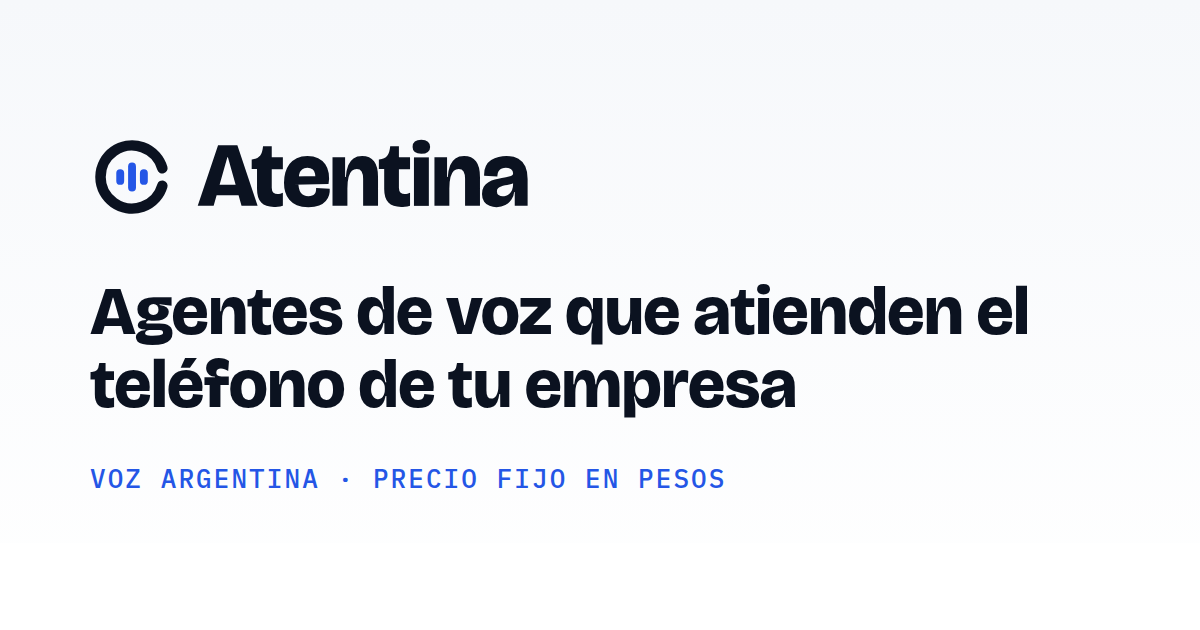
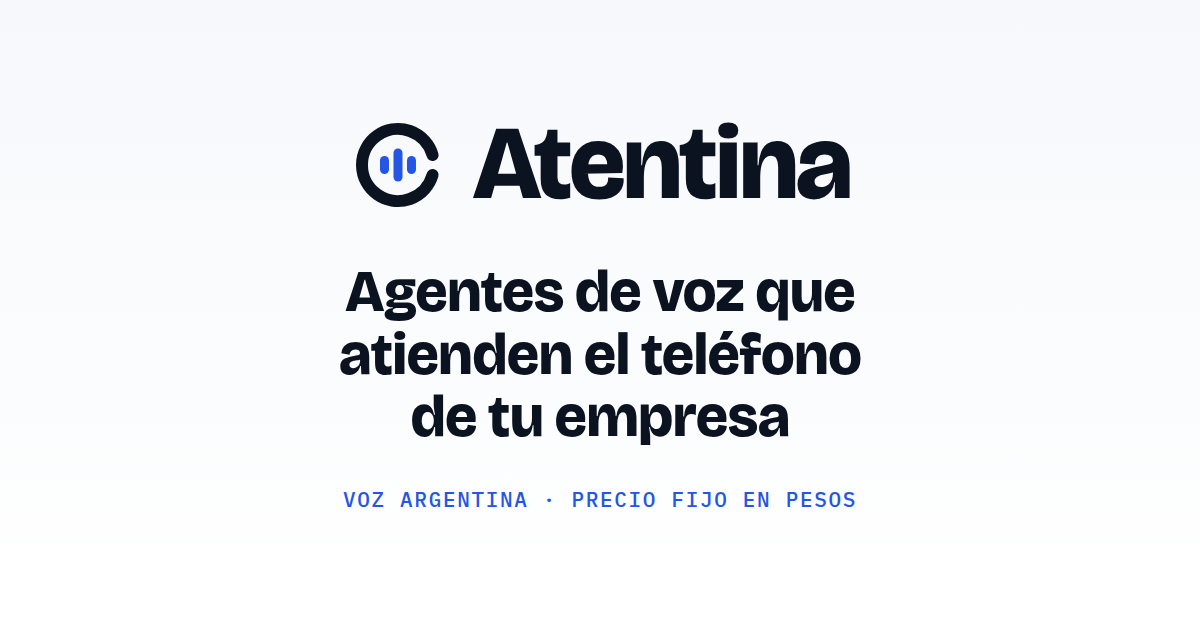
snapshot

Changed region(s): [[0.0617, 0.4222, 0.8633, 0.8143], [0.0617, 0.181, 0.7092, 0.3619], [0.0617, 0.7238, 0.2775, 0.7841]]

diff --git a/docs/DESIGN_GUIDELINE.md b/docs/DESIGN_GUIDELINE.md
@@ -31,7 +31,7 @@ cualquier pantalla de la landing. El dashboard (`web/`) sigue
   `landing/src/assets/og.png` (va con hash en la URL: al cambiarla, las vistas previas toman la nueva). Se generan en `scratch/logo/` (`build_atentina.py`, `og.html`).
   - Sobre claro: anillo y palabra en `ink`, barras en `accent` (azul del hub).
   - Sobre fondo `ink` (archivos `-blanco`): anillo y palabra en `cta-ink`, barras en `accent-on-dark`.
-  - `og.png` (1200 × 630): fondo del hero, logo, título en Bricolage 800 y rótulo en mono con el acento.
+  - `og.png` (1200 × 630): fondo del hero, logo, título en Bricolage 800 y rótulo en mono con el acento. Todo centrado y dentro del cuadrado central (630 × 630): las miniaturas cuadradas recortan por el centro.
 
 ## 3. Color
 
@@ -199,7 +199,7 @@ Patrones que se repiten; copiar estas clases al armar algo nuevo:
 - **Números:** pesos como `$ 29.000` (espacio y punto de miles), dólares como `USD 19`, duración como `1:42`. Siempre con `tabular-nums`.
 - **Estados en mono y minúscula:** "listo", "terminada".
 - **Errores:** dicen qué pasó y qué hacer, en una línea.
-- `lang="es-AR"`. Cada página tiene su `title` y `description` (props de `Base.astro`).
+- `lang="es-AR"`. Cada página tiene su `title` y `description` (props de `Base.astro`). `ogDescription` es el texto de la tarjeta del link, de hasta ~70 caracteres: WhatsApp corta la descripción a las dos líneas. Hoy la tiene la home; sin ella va `description`.
 
 ## 11. Antes de entregar
 

diff --git a/docs/LANDING.md b/docs/LANDING.md
@@ -15,7 +15,8 @@ Cloudflare Tunnel. No hay backend aparte ni base nueva: costo adicional cero.
 - **Publicar:** push a la rama que sigue Render; solo los cambios en `landing/` despliegan.
 - **Diseño:** tokens, componentes, patrones y voz en [`DESIGN_GUIDELINE.md`](DESIGN_GUIDELINE.md).
 - **`og.png`, favicon y logos (`docs/brand/`):** se generan en `scratch/logo/` (`build_atentina.py`, y
-  `og.html` con Chrome headless a 1200 × 630), con los colores de la guía.
+  `og.html` con Chrome headless a 1200 × 630), con los colores de la guía. El contenido de `og.png` va
+  centrado, dentro del cuadrado central, para que no lo corten las miniaturas cuadradas.
 
 ## Desarrollo
 
